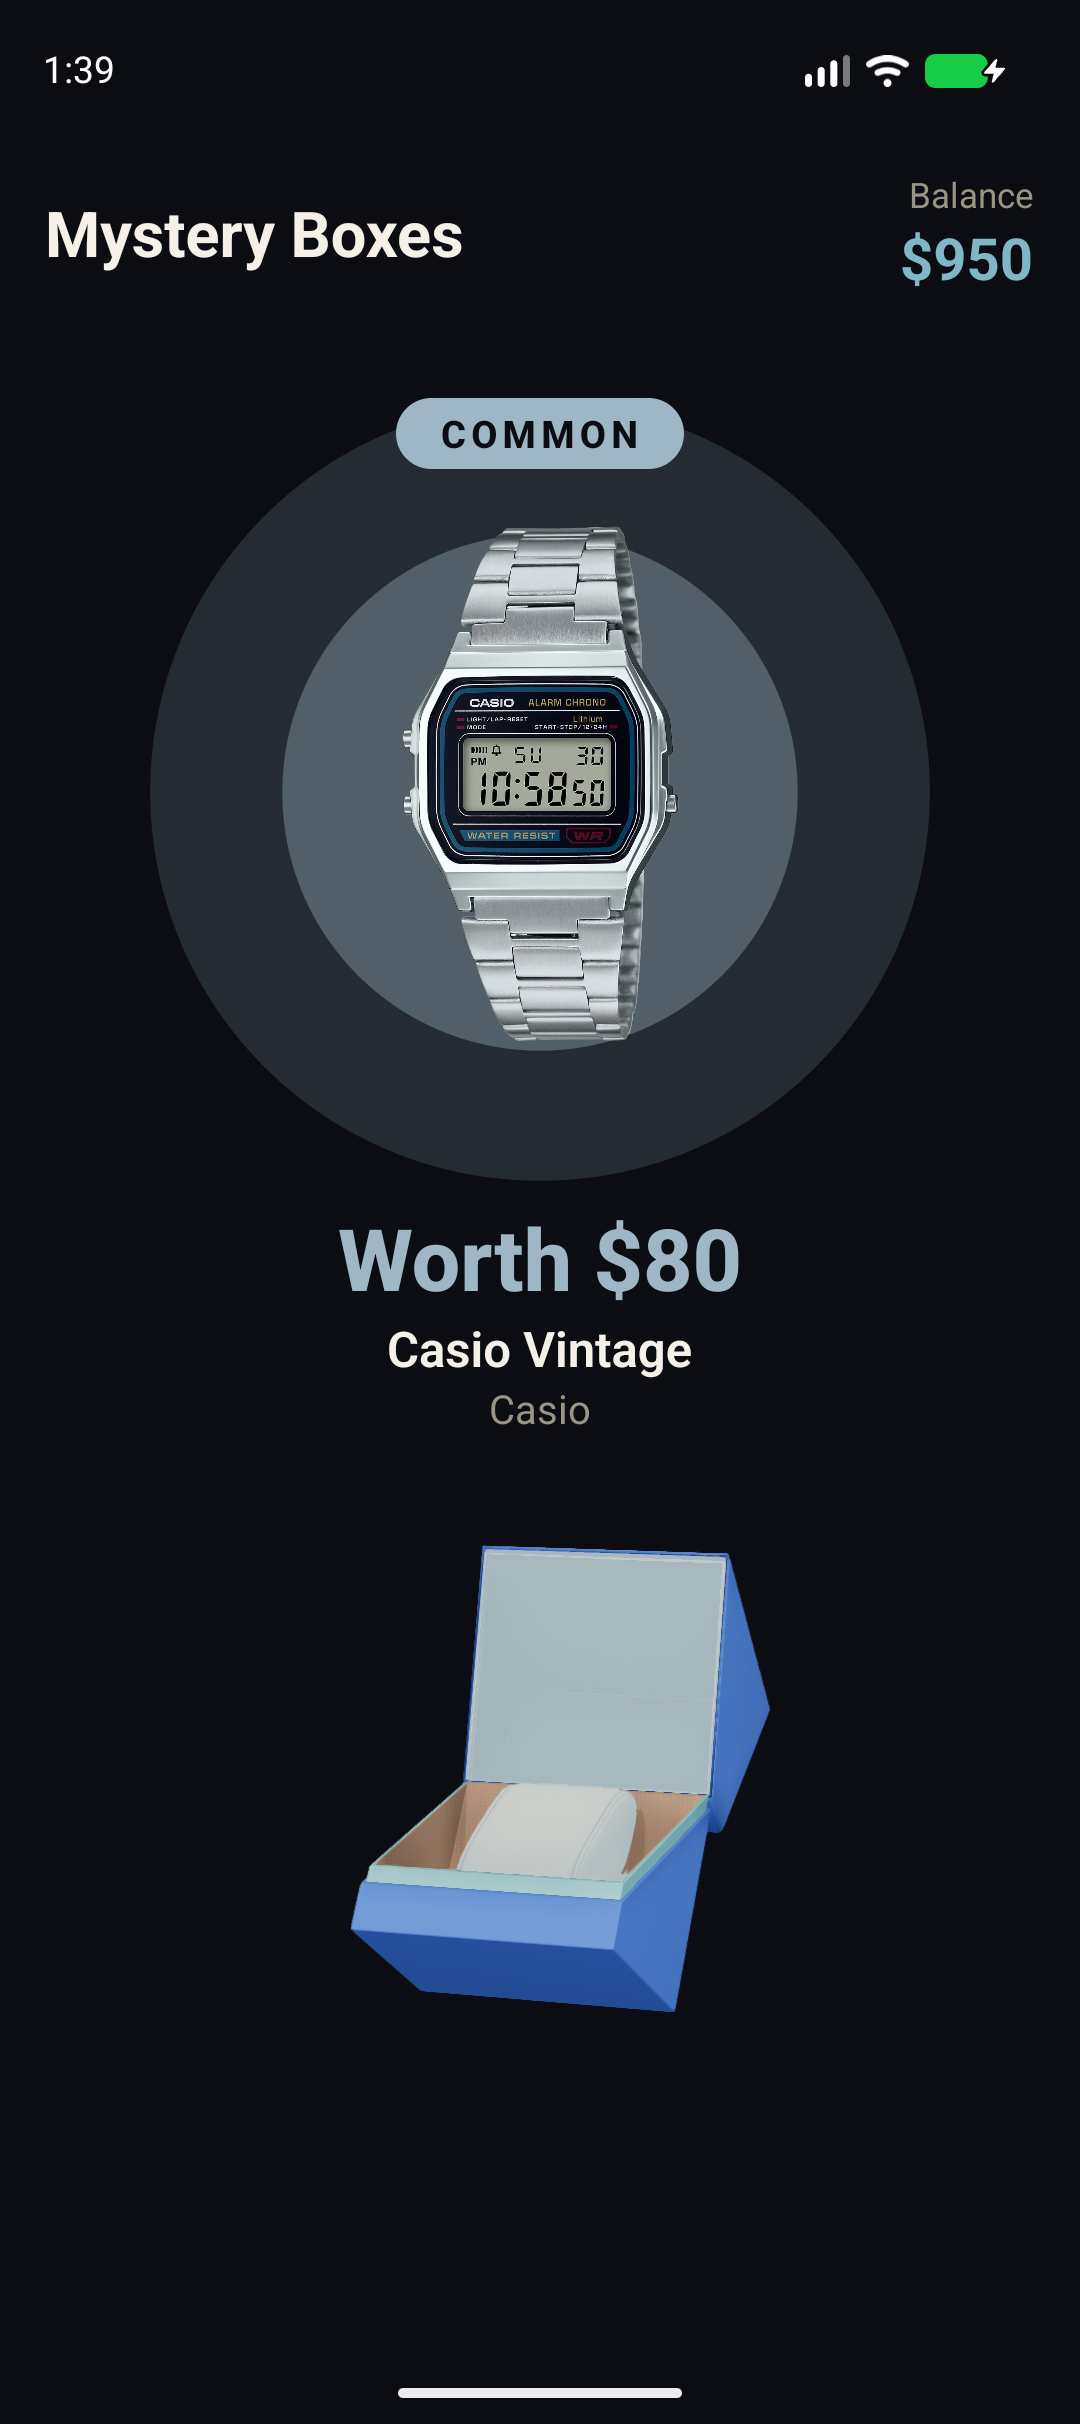
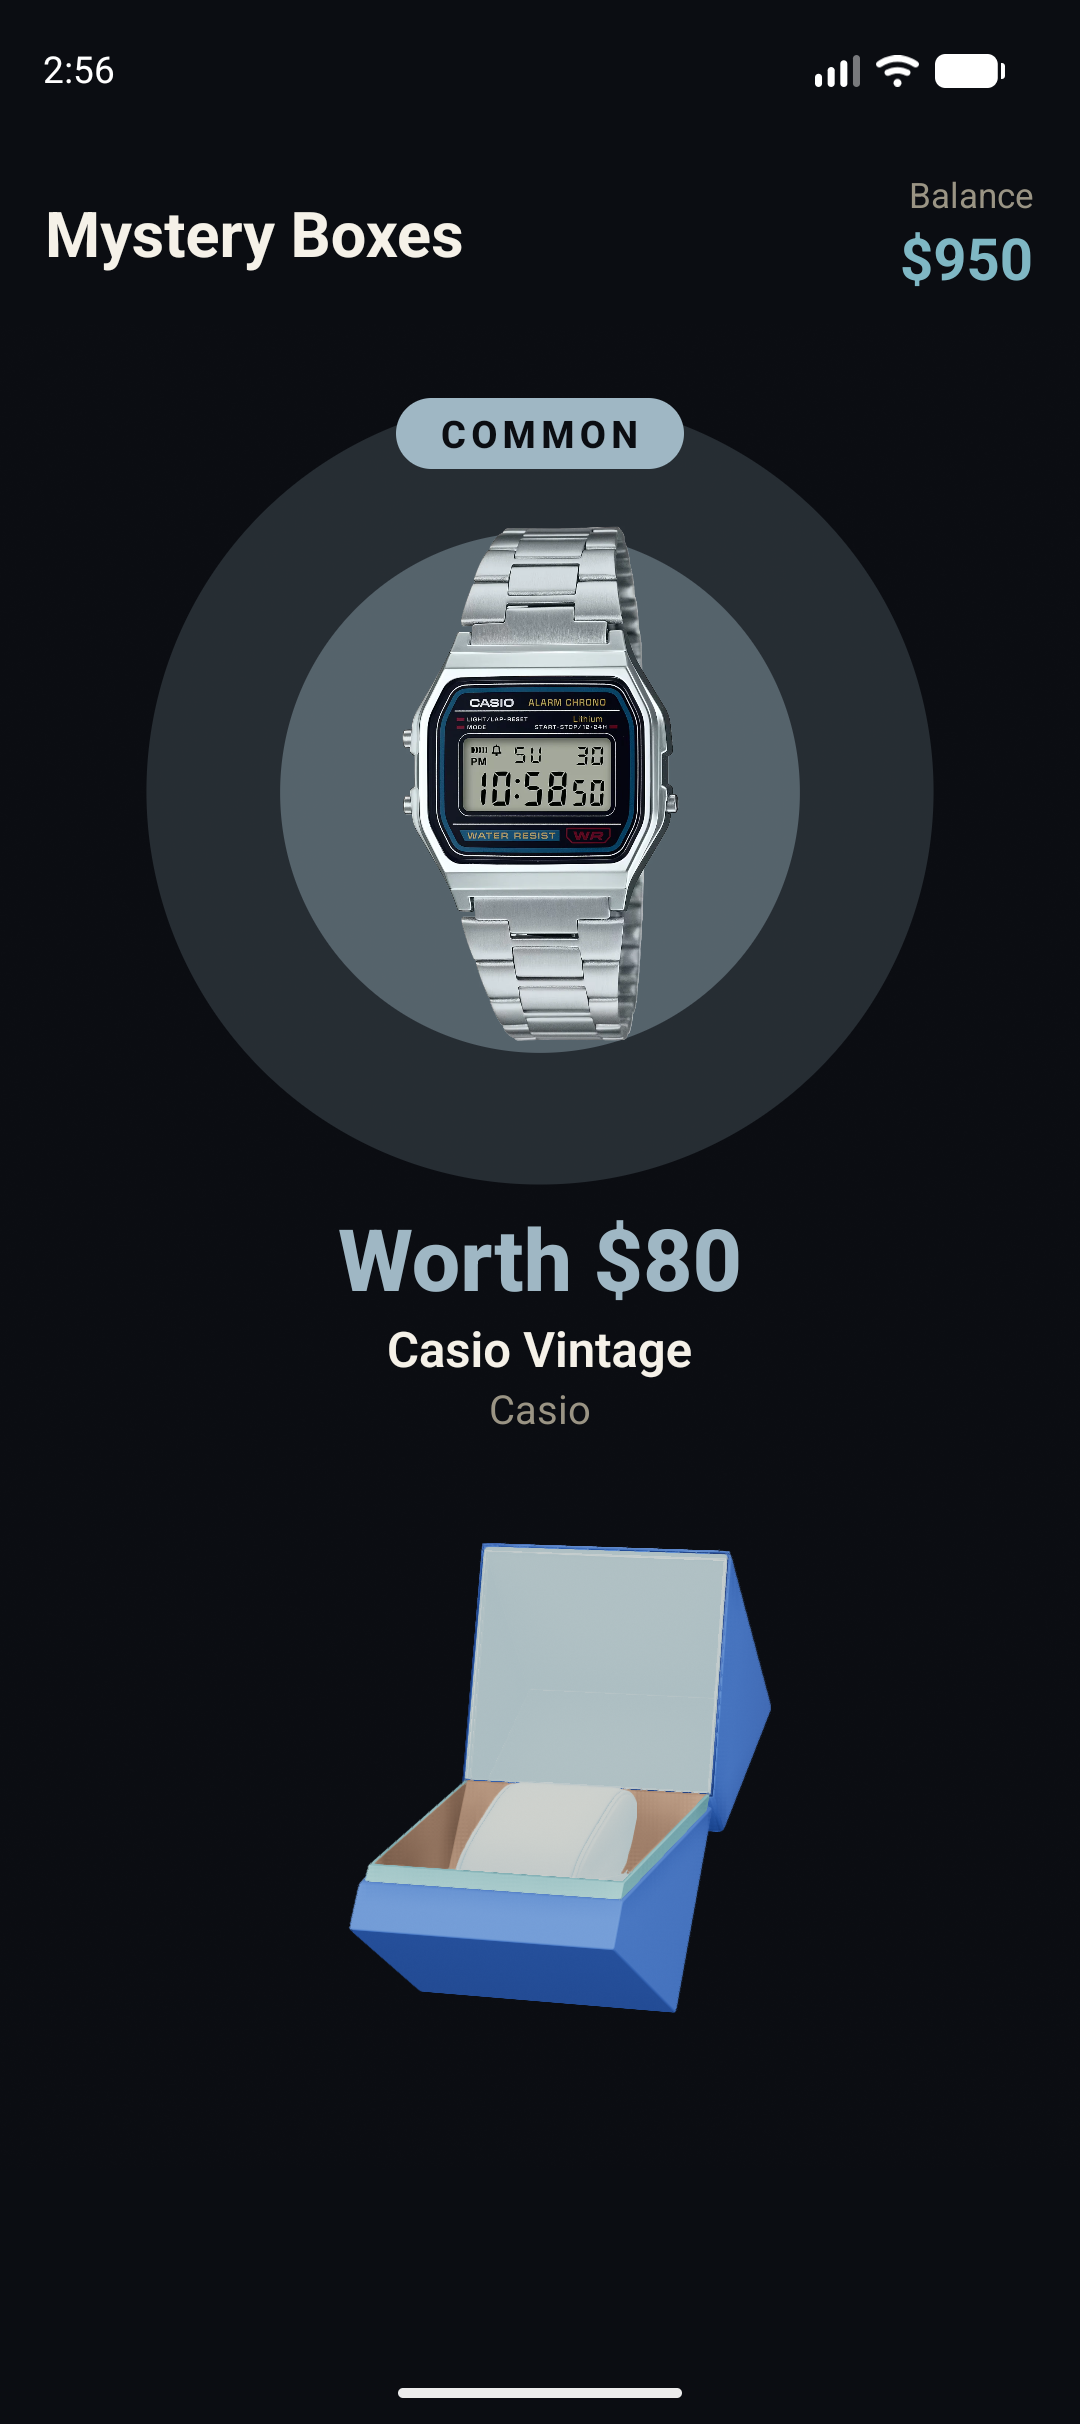
iOS glow intensity 1.6; Android scripted flow shots; docs media

diff --git a/modules/mystery-scene/ios/BoxScene.swift b/modules/mystery-scene/ios/BoxScene.swift
@@ -215,10 +215,10 @@ final class BoxScene {
     if let previous = appliedGlowStrength[cardIndex], abs(previous - strength) <= 0.002 { return }
     appliedGlowStrength[cardIndex] = strength
     let emission = GlbLoader.linearColor(color[0] * strength, color[1] * strength, color[2] * strength)
-    // SceneKit's emission is dimmer than Filament's emissive factor: the intensity brings the glow (and its bloom) to the same strength.
+    // SceneKit's emission is dimmer than Filament's emissive factor: a moderate intensity brings the glow to a strength like the first version (4 blew the colour out to white).
     glowMaterials[cardIndex].forEach {
       $0.emission.contents = emission
-      $0.emission.intensity = 4
+      $0.emission.intensity = 1.6
     }
   }
 }
